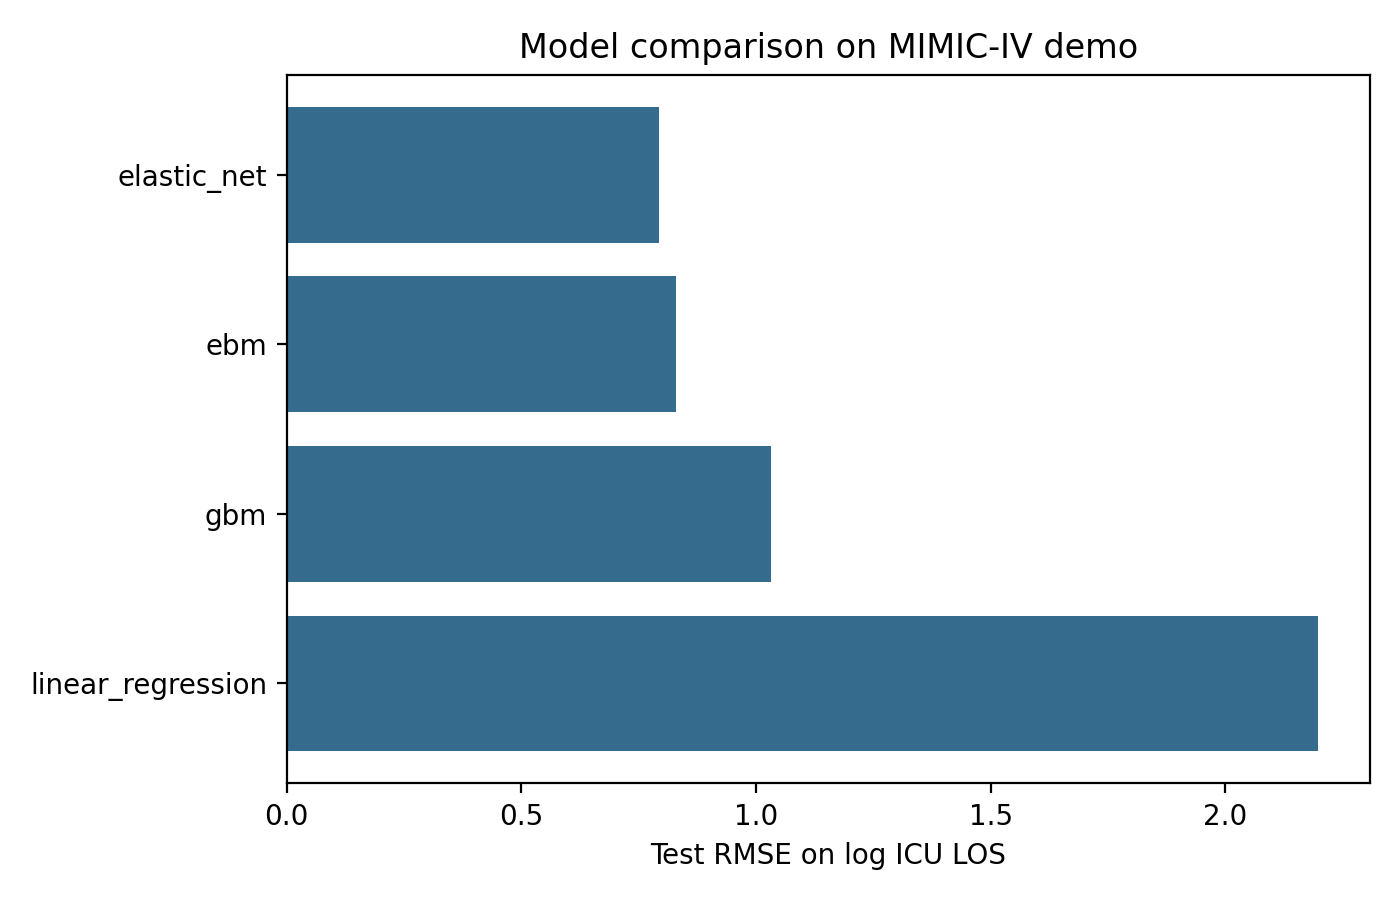
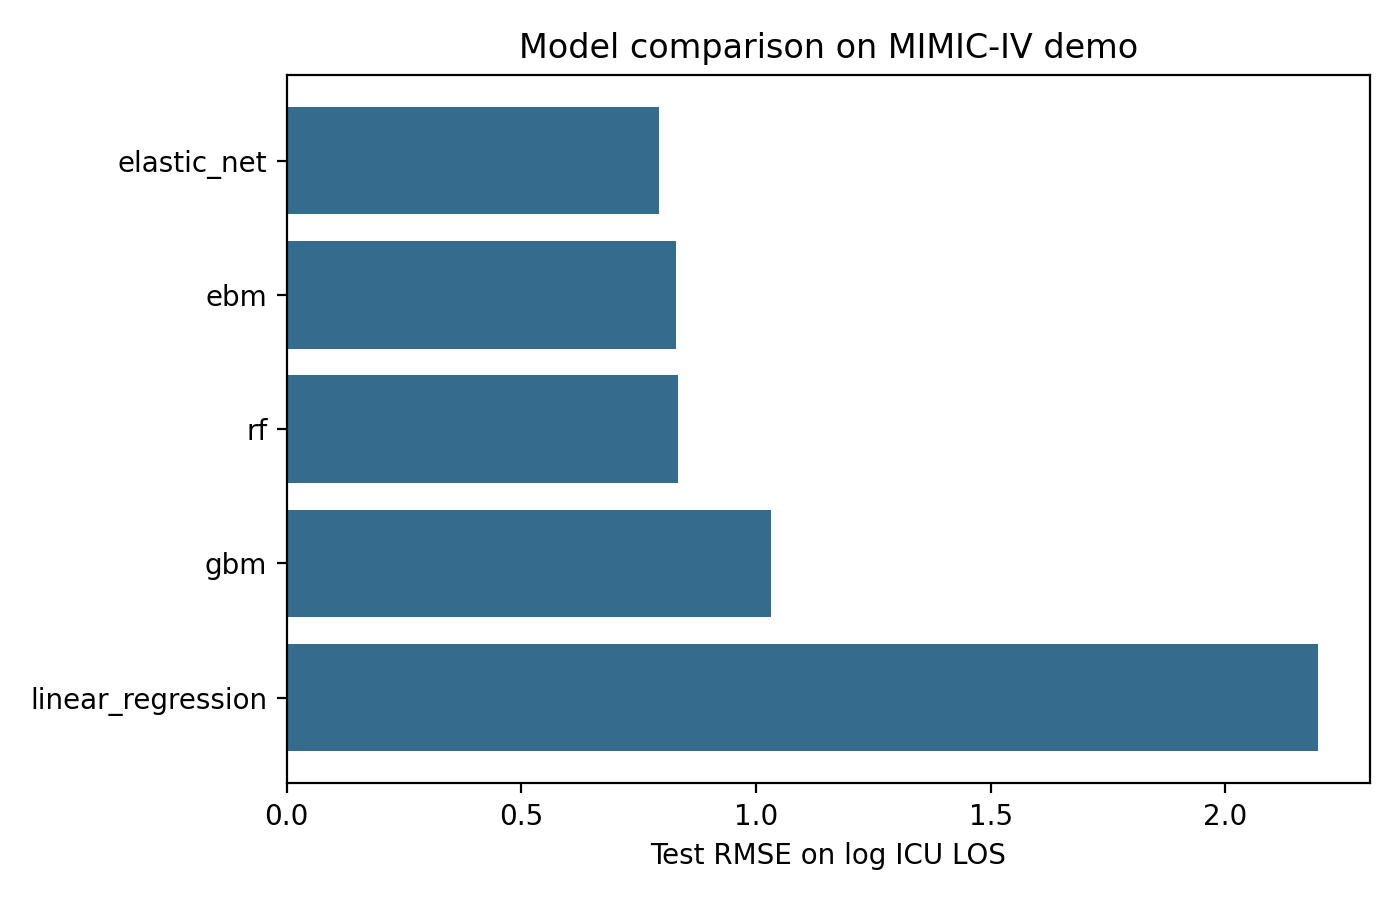
Add random forest model

diff --git a/script/run_rf.py b/script/run_rf.py
@@ -1,0 +1,54 @@
+#!/usr/bin/env python3
+"""Run random forest model for ICU LOS prediction."""
+
+from __future__ import annotations
+
+import sys
+from pathlib import Path
+
+import pandas as pd
+from sklearn.ensemble import RandomForestRegressor
+from sklearn.model_selection import train_test_split
+from sklearn.pipeline import Pipeline
+
+sys.path.insert(0, str(Path(__file__).resolve().parent))
+from utils import MODEL_OUT, get_xy, load_analytic, make_preprocessor, metrics, save_json
+
+
+def main() -> None:
+    df = load_analytic()
+    X, y = get_xy(df)
+    X_train, X_test, y_train, y_test = train_test_split(X, y, test_size=0.30, random_state=263, shuffle=True)
+
+    model = RandomForestRegressor(
+        n_estimators=500,
+        max_features="sqrt",
+        min_samples_leaf=3,
+        random_state=263,
+        n_jobs=-1,
+    )
+    pipe = Pipeline([("preprocess", make_preprocessor(X)), ("model", model)])
+    pipe.fit(X_train, y_train)
+    pred = pipe.predict(X_test)
+
+    out_dir = MODEL_OUT / "rf"
+    out_dir.mkdir(parents=True, exist_ok=True)
+    pd.DataFrame([{"model": "rf", **metrics(y_test, pred)}]).to_csv(out_dir / "perf.csv", index=False)
+    pd.DataFrame({"y_true": y_test.to_numpy(), "rf": pred}, index=y_test.index).to_csv(
+        out_dir / "pred.csv", index=True
+    )
+    save_json(
+        out_dir / "meta.json",
+        {
+            "n_train": len(X_train),
+            "n_test": len(X_test),
+            "n_estimators": 500,
+            "max_features": "sqrt",
+            "min_samples_leaf": 3,
+        },
+    )
+    print(f"Saved random forest results to {out_dir}")
+
+
+if __name__ == "__main__":
+    main()

diff --git a/script/combine.py b/script/combine.py
@@ -26,6 +26,7 @@ def main() -> None:
     perf_paths = [
         MODEL_OUT / "lm" / "perf.csv",
         MODEL_OUT / "gbm" / "perf.csv",
+        MODEL_OUT / "rf" / "perf.csv",
         MODEL_OUT / "ebm" / "perf.csv",
     ]
     frames = [pd.read_csv(path) for path in perf_paths if path.exists()]

diff --git a/README.md b/README.md
@@ -45,6 +45,7 @@ Run the scripts from the repo root.
 python3 script/prep_data.py
 python3 script/run_lm.py
 python3 script/run_gbm.py
+python3 script/run_rf.py
 python3 script/run_ebm.py
 python3 script/combine.py
 ```
@@ -54,6 +55,7 @@ What each script does:
 - `script/prep_data.py`: builds the analysis dataset from the MIMIC-IV demo files
 - `script/run_lm.py`: runs linear regression and elastic net
 - `script/run_gbm.py`: runs gradient boosting
+- `script/run_rf.py`: runs random forest
 - `script/run_ebm.py`: runs EBM and saves EBM explanation figures
 - `script/combine.py`: combines model performance into one summary table
 - `script/ebm_plot.py`: helper functions for EBM plots
@@ -66,6 +68,7 @@ We currently compare four methods:
 - linear regression
 - elastic net regression
 - gradient boosting
+- random forest
 - explainable boosting machine, or EBM
 
 The main metrics are:
